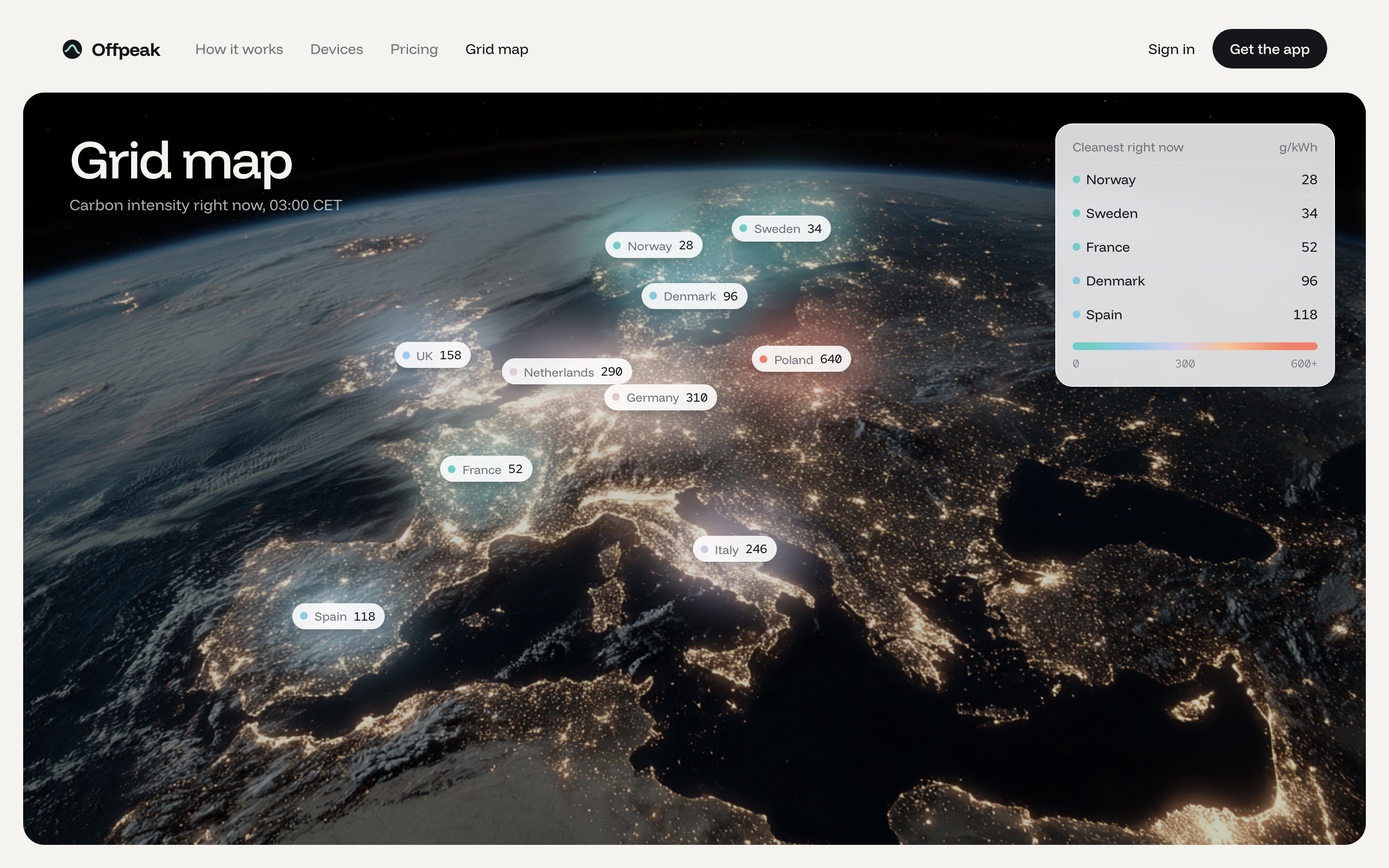
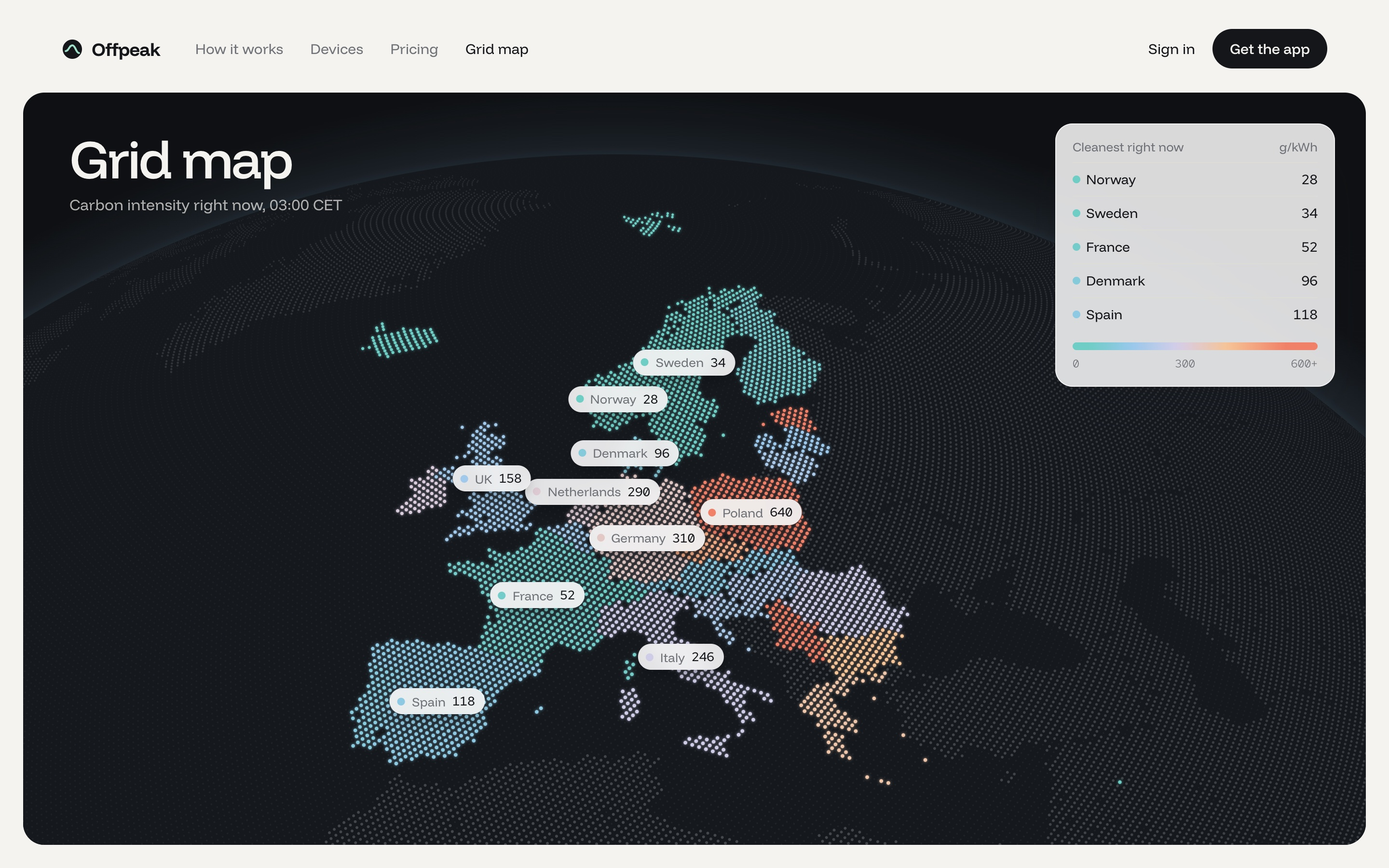
Reorder Lab and refresh Offpeak and Moreira Holm
- Lab order: Tanabe Bros., Moreira Holm, Offpeak, Kaldá, Halden,
  Turndown, Kiln, Parity, renumbered 01-08.
- Offpeak grid map: a dotted globe drawn in code replaces the orbit
  photo; each country's dots carry its carbon intensity colour.
- Moreira Holm: the card back drops the floor plan and carries the
  logotype, cities and founding year.

diff --git a/components/lab-entries.ts b/components/lab-entries.ts
@@ -40,73 +40,34 @@ export type LabEntry = {
 export const labEntries: LabEntry[] = [
   {
     number: "01",
-    name: "Halden",
-    category: "Logistics operations platform",
+    name: "Tanabe Bros.",
+    category: "Snowboard maker, a board for night riding",
     images: [
       {
-        src: halden,
-        alt: "Halden lanes dashboard showing live shipping routes across the North Sea and Baltic, on a plaster wall in afternoon light.",
-        label: "Lanes",
+        src: nightswim,
+        alt: "Tanabe Bros. product page for the Nightswim snowboard: three boards with a lime, white, cobalt and black contour topsheet and one black base, beside the price in yen, sizes and specs.",
+        label: "Product",
       },
       {
-        src: haldenDock,
-        alt: "Halden dock schedule for Gdańsk T2: six berths on a timeline with a now line at 13:40 and a suggestion to move MV Skagen to Berth 2.",
-        label: "Docks",
+        src: nightswimMap,
+        alt: "The Nightswim topsheet art shown as a trail map, with lifts, numbered lit and unlit runs, elevations and the strip the 154 board is cut from, next to the board itself.",
+        label: "Trail map",
       },
       {
-        src: haldenException,
-        alt: "Halden exception detail for a reefer container drifting above its temperature limit, with a six-hour chart, an event timeline and actions.",
-        label: "Exception",
+        src: nightswimBoard,
+        alt: "Tanabe Bros. brand board: a night snowboarder under floodlights, the logotype, the line Last chair leaves at 20:20, an app screen showing lit runs, a palette, line icons, a night lift ticket, stickers, a screen-printing workshop, a portrait outside a lodge and a volcano above lit ski runs.",
+        label: "Brand board",
       },
     ],
   },
   {
     number: "02",
-    name: "Turndown",
-    category: "Evening routine app",
-    images: [
-      {
-        src: turndown,
-        alt: "Turndown brand board: a clay sphere on linen under the sign Evening service from 21:30, a folded-blanket app icon, door hangers reading Turndown please and Do not disturb, a phone preparing the bedroom, a bedroom poster reading Your room has been turned down, and a lock-screen notice.",
-        label: "Brand board",
-      },
-      {
-        src: turndownFlow,
-        alt: "Turndown evening flow: three phone screens for setting the evening, the room getting ready and a morning note for room 214, a dawn bedroom photo reading Good morning, room 214, and home-screen widgets.",
-        label: "Evening flow",
-      },
-    ],
-  },
-  {
-    number: "03",
-    name: "Kiln",
-    category: "Remote build cache",
-    images: [
-      {
-        src: kiln,
-        alt: "Kiln landing section: an isometric stack of build layers, the cached ones glowing acid green and the changed ones drawn as wireframes, above the headline Builds that start warm, CI stats and a terminal run.",
-        label: "Landing",
-      },
-      {
-        src: kilnTrace,
-        alt: "Kiln build trace for build 4812: built in 48 seconds with 11 of 14 targets warm, a waterfall of targets with cached ones in acid green and three rebuilt ones in bone, and the critical path.",
-        label: "Build trace",
-      },
-      {
-        src: kilnHeatmap,
-        alt: "Kiln cache page: 94.2% hit rate, 212 hours saved, a 30-day heatmap of hit rate per package, and the packages with the most cold starts with suggested fixes.",
-        label: "Cache",
-      },
-    ],
-  },
-  {
-    number: "04",
     name: "Moreira Holm",
     category: "Architecture practice",
     images: [
       {
         src: moreiraHolm,
-        alt: "Moreira Holm brand board: gouache paintings of a sunlit room, white houses on a hillside and a stone stair, a wide logotype split by a solid bar, business cards with two studio addresses and a floor plan, and a palette named Cal, Ocre, Oliva and Ardósia.",
+        alt: "Moreira Holm brand board: gouache paintings of a sunlit room, white houses on a hillside and a stone stair, a wide logotype split by a solid bar, business cards with two studio addresses on the front and the logotype on an ochre back, and a palette named Cal, Ocre, Oliva and Ardósia.",
         label: "Brand board",
       },
       {
@@ -117,24 +78,7 @@ export const labEntries: LabEntry[] = [
     ],
   },
   {
-    number: "05",
-    name: "Parity",
-    category: "Design QA for pull requests",
-    images: [
-      {
-        src: parity,
-        alt: "Parity website hero, Ship the design you signed off, above a compare view that splits a payment card between its Figma design and production, with the drifted button marked in magenta, a list of three drifts and a pull request check.",
-        label: "Hero",
-      },
-      {
-        src: parityFooter,
-        alt: "Parity footer: a wide photo of stacked acrylic sheets with the line Catch drift before it ships, the Parity wordmark rising out of the photo with its lower half shifted slightly, and footer links.",
-        label: "Footer",
-      },
-    ],
-  },
-  {
-    number: "06",
+    number: "03",
     name: "Offpeak",
     category: "Home energy scheduling",
     images: [
@@ -150,12 +94,13 @@ export const labEntries: LabEntry[] = [
       },
       {
         src: offpeakMap,
-        alt: "Offpeak grid map over a night photo of Europe from orbit, countries glowing by carbon intensity from Norway at 28 to Poland at 640 grams per kilowatt hour.",
+        alt: "Offpeak grid map on a dotted globe of Europe, each country's dots coloured by carbon intensity from Norway at 28 to Poland at 640 grams per kilowatt hour.",
         label: "Grid map",
       },
     ],
-  },  {
-    number: "07",
+  },
+  {
+    number: "04",
     name: "Kaldá",
     category: "Mineral water, a story in three chapters",
     images: [
@@ -177,24 +122,80 @@ export const labEntries: LabEntry[] = [
     ],
   },
   {
-    number: "08",
-    name: "Tanabe Bros.",
-    category: "Snowboard maker, a board for night riding",
+    number: "05",
+    name: "Halden",
+    category: "Logistics operations platform",
     images: [
       {
-        src: nightswim,
-        alt: "Tanabe Bros. product page for the Nightswim snowboard: three boards with a lime, white, cobalt and black contour topsheet and one black base, beside the price in yen, sizes and specs.",
-        label: "Product",
+        src: halden,
+        alt: "Halden lanes dashboard showing live shipping routes across the North Sea and Baltic, on a plaster wall in afternoon light.",
+        label: "Lanes",
       },
       {
-        src: nightswimMap,
-        alt: "The Nightswim topsheet art shown as a trail map, with lifts, numbered lit and unlit runs, elevations and the strip the 154 board is cut from, next to the board itself.",
-        label: "Trail map",
+        src: haldenDock,
+        alt: "Halden dock schedule for Gdańsk T2: six berths on a timeline with a now line at 13:40 and a suggestion to move MV Skagen to Berth 2.",
+        label: "Docks",
       },
       {
-        src: nightswimBoard,
-        alt: "Tanabe Bros. brand board: a night snowboarder under floodlights, the logotype, the line Last chair leaves at 20:20, an app screen showing lit runs, a palette, line icons, a night lift ticket, stickers, a screen-printing workshop, a portrait outside a lodge and a volcano above lit ski runs.",
+        src: haldenException,
+        alt: "Halden exception detail for a reefer container drifting above its temperature limit, with a six-hour chart, an event timeline and actions.",
+        label: "Exception",
+      },
+    ],
+  },
+  {
+    number: "06",
+    name: "Turndown",
+    category: "Evening routine app",
+    images: [
+      {
+        src: turndown,
+        alt: "Turndown brand board: a clay sphere on linen under the sign Evening service from 21:30, a folded-blanket app icon, door hangers reading Turndown please and Do not disturb, a phone preparing the bedroom, a bedroom poster reading Your room has been turned down, and a lock-screen notice.",
         label: "Brand board",
+      },
+      {
+        src: turndownFlow,
+        alt: "Turndown evening flow: three phone screens for setting the evening, the room getting ready and a morning note for room 214, a dawn bedroom photo reading Good morning, room 214, and home-screen widgets.",
+        label: "Evening flow",
+      },
+    ],
+  },
+  {
+    number: "07",
+    name: "Kiln",
+    category: "Remote build cache",
+    images: [
+      {
+        src: kiln,
+        alt: "Kiln landing section: an isometric stack of build layers, the cached ones glowing acid green and the changed ones drawn as wireframes, above the headline Builds that start warm, CI stats and a terminal run.",
+        label: "Landing",
+      },
+      {
+        src: kilnTrace,
+        alt: "Kiln build trace for build 4812: built in 48 seconds with 11 of 14 targets warm, a waterfall of targets with cached ones in acid green and three rebuilt ones in bone, and the critical path.",
+        label: "Build trace",
+      },
+      {
+        src: kilnHeatmap,
+        alt: "Kiln cache page: 94.2% hit rate, 212 hours saved, a 30-day heatmap of hit rate per package, and the packages with the most cold starts with suggested fixes.",
+        label: "Cache",
+      },
+    ],
+  },
+  {
+    number: "08",
+    name: "Parity",
+    category: "Design QA for pull requests",
+    images: [
+      {
+        src: parity,
+        alt: "Parity website hero, Ship the design you signed off, above a compare view that splits a payment card between its Figma design and production, with the drifted button marked in magenta, a list of three drifts and a pull request check.",
+        label: "Hero",
+      },
+      {
+        src: parityFooter,
+        alt: "Parity footer: a wide photo of stacked acrylic sheets with the line Catch drift before it ships, the Parity wordmark rising out of the photo with its lower half shifted slightly, and footer links.",
+        label: "Footer",
       },
     ],
   },
